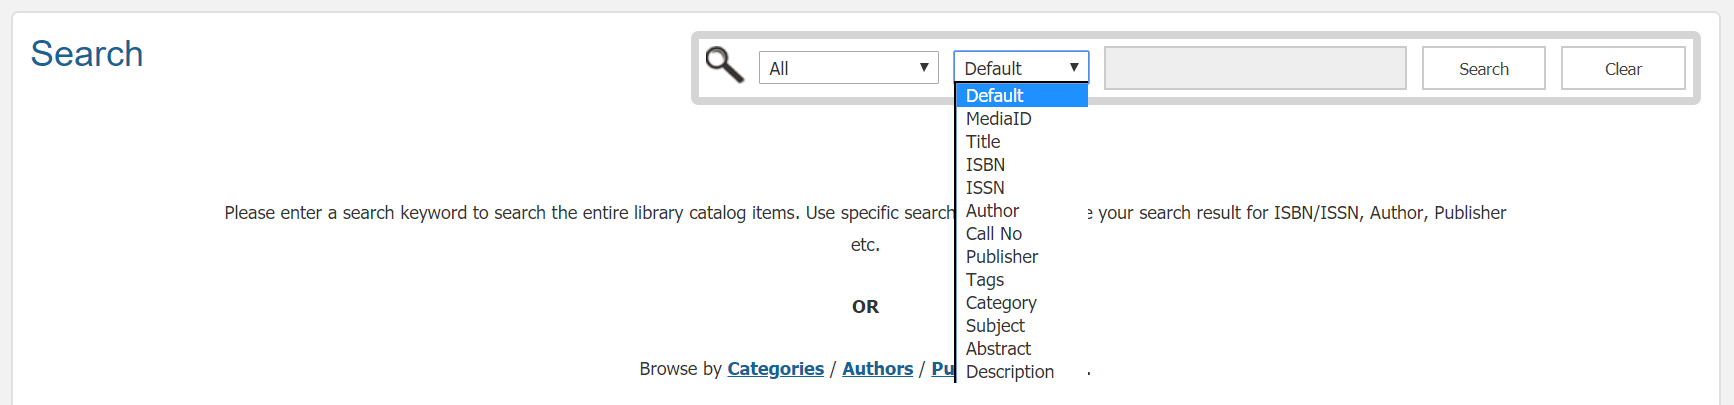
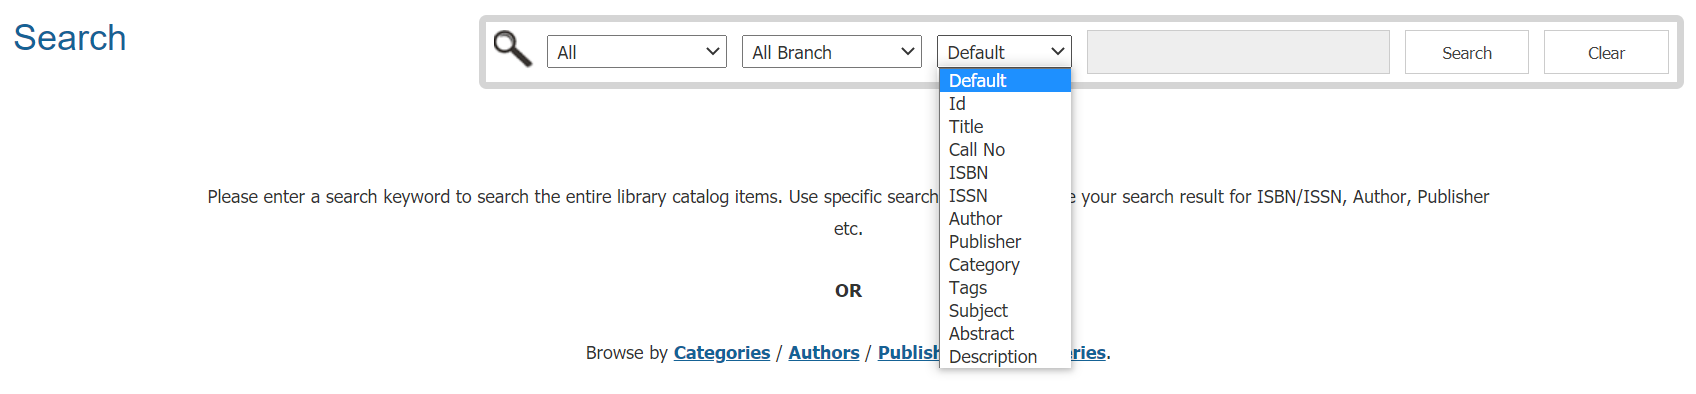
Modifications on opac & barcode label
Added series on the opacs section. Also, added spine label section on the barcode label page.

Changed region(s): [[0.125, 0.0305, 1.0, 0.9442], [0.625, 0.4569, 0.875, 0.5482], [0.0, 0.0609, 0.0938, 0.1827]]

diff --git a/docs/barcode-labels.md b/docs/barcode-labels.md
@@ -218,3 +218,27 @@ To do so, please follow the below steps:
 **For Bulk Import**:
 
 You can provide your catalog information along with your own (existing) accession number for barcode (existing) when adding your records using our [Bulk Import](cataloging.md#bulk-import) method. You can only use your existing barcode labels if they are numeric digit.
+
+## Spine Labels
+
+Spine labels make it easier for library users to locate their favourite resources. To generate spine labels please follow the below procedure.
+
+* At first please follow the instructions in the [Add to Barcode Queue](#add-to-barcode-queue) section mentioned above.
+* After adding books to the queue please click on the `Generate Barcodes` button.
+* Now in the `Generate Barcodes` section please select **call number** in the line 1 or line 2 or line 3 any of these options like below.
+
+    ![Barcode Labels spine label](img/spine-label-options.png)
+
+* Next turn on the `Binding fold option`. If you turn on this option then a new option called `Hide Label` will be appeared like below.
+
+    ![Barcode Labels spine label](img/spine-label-hide-label-option.png)
+
+* Next turn on the `Hide Label` option. By turning this on the barcode will be hidden and it will work as spine label.
+
+    ![Barcode Labels spine label](img/spine-label.png)
+
+* Then click on the `Submit` button and your labels will be saved.
+
+    ![Barcode Labels spine label](img/spine-label-print.png)
+
+* Now you can print them out. Also, please remember to click on the `Print Completed?` button after printing your labels otherwise you can not add new items to the queue. 

diff --git a/docs/opacs.md b/docs/opacs.md
@@ -53,6 +53,9 @@ Search Catalog is the section where you can search the entire library catalog it
 
 	![OPAC catalog search page](img/opac_catalog_search_mediatype.png)
 
+* If you want to search the catalog by library branch then choose the library branch like below.
+	![OPAC catalog search page](img/opac_catalog_search_branch.png)
+
 * If you want to search the catalog by any keyword then choose the `Default` mode. You can also use specific search field such as ISBN/ISSN, Title, Publisher and more options for a better result.
 
 	![OPAC catalog search page](img/opac_catalog_search_keyword.png)
@@ -72,6 +75,10 @@ Search Catalog is the section where you can search the entire library catalog it
 * You can browse the catalog by tags if you click on `Tags`
 
 	![OPAC catalog search page](img/opac_catalog_search_tags.png)
+
+* You can browse the catalog by series if you click on `Series`
+
+	![OPAC catalog search page](img/opac_catalog_search_series.png)
 
 * You can also clear your searching history if you click on the `Clear` button.
 
